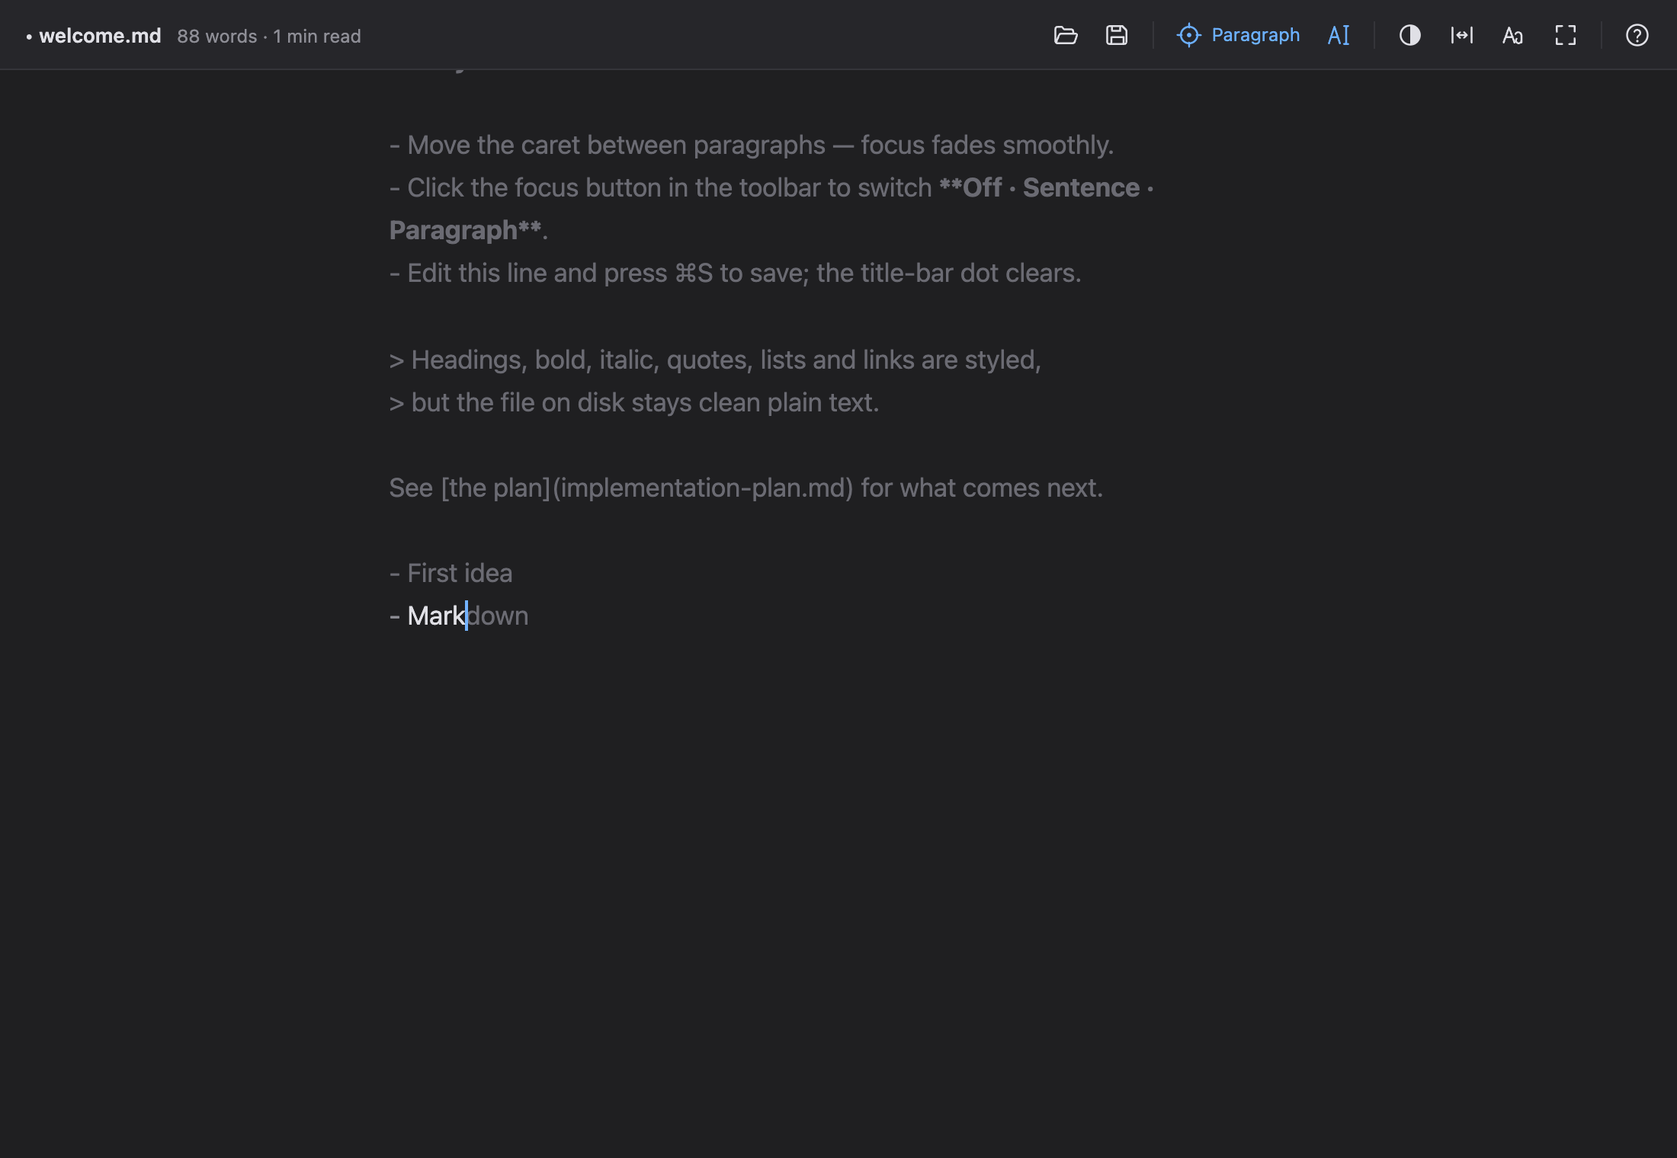
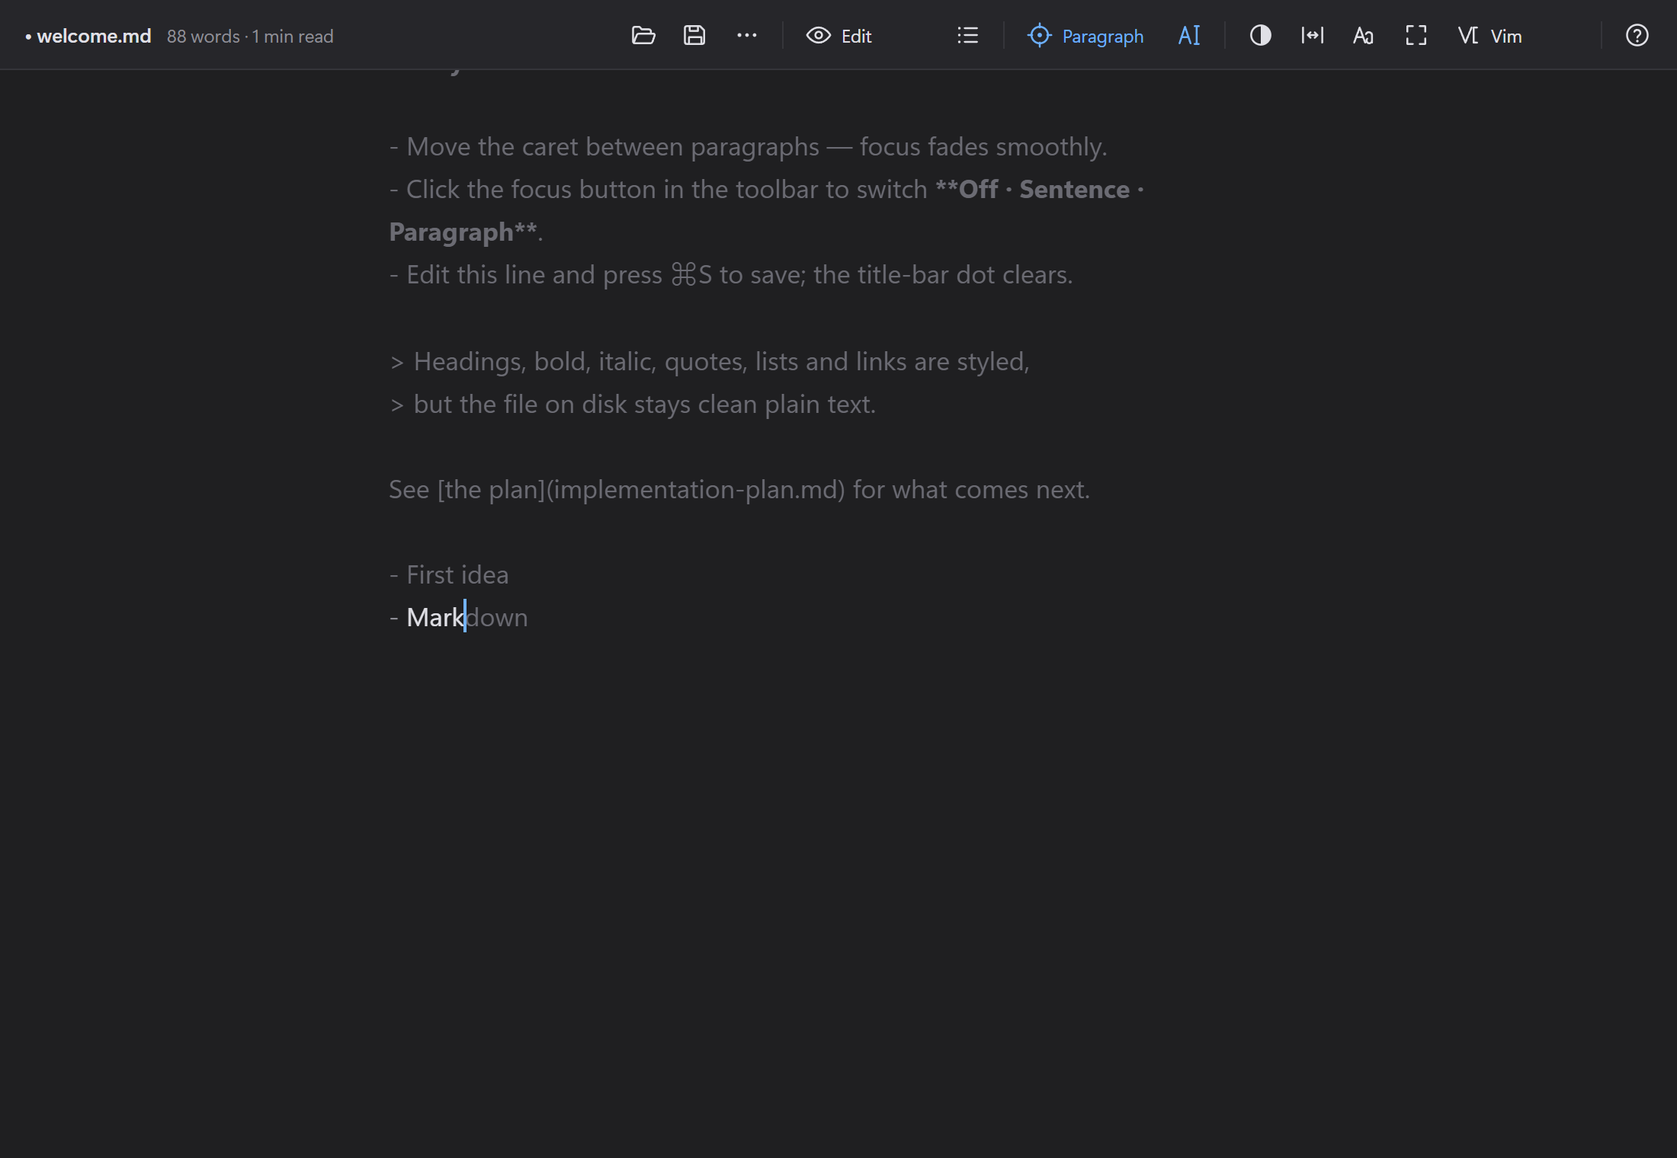
Docs for 1.2.0: Windows status, keys, modules; refreshed Windows screenshots

diff --git a/windows/BUILD.md b/windows/BUILD.md
@@ -10,7 +10,7 @@
 |---|---|---|
 | Оболочка | [Tauri 2](https://tauri.app) (Rust) | нативное окно на системном WebView2; установщик ~5–10 МБ |
 | Редактор | [CodeMirror 6](https://codemirror.net) (TypeScript) | декорации для фокуса, продолжение списков, автоскобки, поиск — из коробки |
-| Rust-часть | `src-tauri/src/lib.rs` | только чтение/запись файлов и файл из командной строки («Открыть с помощью») |
+| Rust-часть | `src-tauri/src/lib.rs` | чтение/запись файлов, файл из командной строки («Открыть с помощью») и открытие `http(s)`-ссылки в браузере |
 
 Логика перенесена из macOS-версии:
 
@@ -22,8 +22,13 @@
 | `Theme.swift`, `Preferences.swift` | `src/themes.ts`, `src/settings.ts` |
 | `HintsViewController.swift` | `src/hints.ts` |
 | `FocusDocument` + меню | `src/main.ts`, `src/platform.ts` |
+| `VimEngine.swift` | `src/vim.ts` (движок), `src/vim-cm.ts` (клавиши, блочный курсор, учебная панель) |
+| `MarkdownToHTML.swift`, панель превью | `src/markdown-html.ts` (на дереве разбора CodeMirror), панель в `src/main.ts` |
+| `OutlineViewController.swift` | `src/outline.ts` |
+| Open Recent, автосохранение NSDocument | `src/recent.ts`, `src/draft.ts` |
+| экспорт HTML, печать | `src/export.ts`, всплывающее меню — `src/menu.ts` |
 
-## Что уже работает (этап 1)
+## Что уже работает (этап 2)
 
 - Фокус-подсветка по предложению или абзацу с плавным угасанием — кнопка-прицел в тулбаре (горячих клавиш нет).
 - Печатная машинка: строка держится по центру окна (**Ctrl+T**).
@@ -31,8 +36,15 @@
 - Серая подсказка слова из документа: **Tab** / **→** — принять, **Esc** — убрать, **Ctrl+Space** — список. В Fountain — `INT.`/`EXT.` и имена персонажей.
 - Автоскобки `( [ { " ` «` с оборачиванием выделения; продолжение списков, задач и цитат по Enter.
 - **Ctrl+B / I / K** — жирный, курсив, ссылка; **Ctrl+F** — поиск и замена.
-- Темы Light / Dark / Sepia, ширина колонки, шрифт, размер (**Ctrl+= / Ctrl+−**), полный экран (**F11**), шпаргалка (**F1**).
-- Файлы: **Ctrl+N / O / S / Shift+S**; сохраняются BOM и переводы строк (CRLF/LF); «Save As» в `.md` сразу включает Markdown; при закрытии с несохранёнными изменениями — вопрос.
+- Темы System / Light / Dark / Sepia, ширина колонки, шрифт, размер (**Ctrl+= / Ctrl+−**), полный экран (**F11**), шпаргалка (**F1**).
+- Файлы: **Ctrl+N / O / S / Shift+S**; сохраняются BOM и переводы строк (CRLF/LF); «Save As» в `.md` сразу включает Markdown; при закрытии с несохранёнными изменениями — вопрос. Файл можно перетащить на окно.
+- **Vim-режим** (кнопка Vim): те же команды и учебная панель, что на Mac; см. [../VIM_GUIDE.md](../VIM_GUIDE.md).
+- **Превью Markdown** (кнопка с глазом, **Ctrl+Shift+P**): Edit → Split → Preview; в Split панели прокручиваются вместе, **Esc** выходит из Preview. HTML-вставки показываются как текст, ссылки открываются в браузере только по `http(s)`, картинки заменены подписью.
+- **Outline** (**Ctrl+Shift+O**): заголовки Markdown или сцены и секции Fountain, текущий пункт подсвечен.
+- **Кнопка ⋯**: недавние файлы (10 штук), Export as HTML, Print or save as PDF (**Ctrl+P**), Copy as HTML. При запуске без файла открывается последний документ.
+- **Восстановление после сбоя:** пока есть несохранённые изменения, их копия лежит в localStorage профиля WebView (обновляется через 1,5 с после правки); после аварийного закрытия при запуске предлагается вернуть текст. Нормальное закрытие, сохранение и «Discard» копию удаляют. Тест: набрать текст, завершить процесс в диспетчере задач, запустить снова.
+- Тема **System** (по умолчанию) следует настройке Windows и переключается вживую.
+- В подсказках (**F1**) внизу: версия, разработчик и ссылка на GitHub.
 - Установщик регистрирует `.md`, `.fountain`, `.txt` для «Открыть с помощью».
 
 **Ещё нет (этап 2):** библиотека, outline, превью и экспорт HTML/PDF, подсветка Fountain, CriticMarkup, звуки печатной машинки, словарные подсказки (в WebView нет доступа к системному словарю).

diff --git a/README.md b/README.md
@@ -29,8 +29,8 @@ FocusEdit is a minimalist macOS text editor for distraction-free writing. It kee
 - **Plain text, styled on screen** — Markdown headings, emphasis, code, quotes, lists, links and CriticMarkup; Fountain scene headings, characters, parentheticals and transitions. Styling is display-only: the file on disk stays clean plain text.
 - **Vim mode for learning** — Modus ▸ Vim Mode: Normal, Insert and Visual modes with the operator + motion grammar (`dw`, `ciw`, `3j`, `.`), and a coach bar under the text that explains every command and suggests faster ways. Leave it with the Exit Vim button on the coach bar or `:novim`. Works in the Russian keyboard layout too. A lesson-by-lesson course is in [VIM_GUIDE.md](VIM_GUIDE.md).
 - **RTF** — `.rtf` files (TextEdit's default format) open as Markdown and save back as RTF: bold, italic, strikethrough, headings, lists, links and code survive the round trip; fonts, colours, images and tables do not, and FocusEdit warns when a file has them. **FocusEdit ▸ Make Default Editor for .txt and .rtf** makes double-clicked text and RTF files open in FocusEdit.
-- **Documents** — standard macOS documents: open, save, revert, recent files, drag and drop. A library sidebar browses a linked folder; the outline jumps between headings; the window subtitle shows the word count and reading time; find and replace.
-- **Preview and export** — live HTML preview for Markdown, export as HTML or PDF, copy as HTML, print.
+- **Documents** — standard macOS documents: open, save, revert, recent files, drag and drop, and autosave elsewhere every minute so unsaved text survives a crash. A library sidebar browses a linked folder; the outline jumps between headings; the window subtitle shows the word count and reading time; find and replace.
+- **Preview and export** — live HTML preview for Markdown in a pane beside the text, scrolling together with it, export as HTML or PDF, copy as HTML, print.
 - **Themes and type** — Light, Dark, Sepia and custom themes; system, monospaced or serif font; three column widths.
 - **Help where you are** — every toolbar button has a tooltip with its shortcut, and ⌘? opens a cheat sheet for the current document type.
 
@@ -87,16 +87,24 @@ The snapshot window stays invisible and never takes keyboard focus, and its demo
 
 <table>
   <tr>
-    <td width="50%"><img src="docs/images/windows-light.png" alt="The Windows version: a light toolbar with open, save, focus (Paragraph), typewriter, theme, column width, font, full screen and hints buttons; the document in a centred column with faded paragraphs and a grey suggestion completing Markdown"></td>
+    <td width="50%"><img src="docs/images/windows-light.png" alt="The Windows version: a light toolbar with open, save, recent files and export, view mode, outline, focus (Paragraph), typewriter, theme, column width, font, full screen, Vim and hints buttons; the document in a centred column with faded paragraphs and a grey suggestion completing Markdown"></td>
     <td width="50%"><img src="docs/images/windows-dark.png" alt="The Windows version in the dark theme"></td>
   </tr>
 </table>
 
 <sub>Rendered from the same web UI in Chrome by <code>npm run snapshot</code> in <code>windows/</code>.</sub>
 
-- **Status:** stage 1. Not yet ported: the library, Fountain highlighting, CriticMarkup and typewriter sounds.
+- **Status:** stage 2. Ported: focus and typewriter, writing aids, Vim mode, Markdown preview (edit, split, preview), outline, recent files, export (HTML, print or PDF, copy as HTML), crash recovery, themes including System, drag-and-drop open. Not yet ported: the library, Fountain highlighting, CriticMarkup and typewriter sounds.
 - **Installers:** GitHub Actions builds the `.exe` installer on Windows for every push to `main` that changes `windows/` (**Actions** → latest run → artifact **FocusEdit-windows**). They cannot be built on a Mac.
-- **Keys:** Ctrl replaces ⌘; F1 opens the hints, F11 toggles full screen. Focus modes have no shortcuts: use the focus button in the toolbar.
+- **Keys:** Ctrl replaces ⌘; F1 opens the hints (with the version and the developer), F11 toggles full screen. Focus modes have no shortcuts: use the focus button in the toolbar.
+
+  | Keys | Action |
+  |---|---|
+  | Ctrl+Shift+P | View: Edit → Split → Preview (Esc leaves the preview) |
+  | Ctrl+Shift+O | Outline of headings |
+  | Ctrl+P | Print, or save as PDF from the print dialog |
+  | ⋯ button | Recent files · Export as HTML · Copy as HTML |
+  | Ctrl+R | Redo in Vim mode (it no longer reloads the window) |
 - **Build from source:** Node.js 22+ and Rust; see [windows/BUILD.md](windows/BUILD.md) (in Russian).
 
 ## Project documents

diff --git a/START_HERE.md b/START_HERE.md
@@ -43,7 +43,7 @@ cd ~/Project/rea-lab/work/uFocus/FocusEdit
 
 На диск всегда пишется простой текст UTF-8. Жирный, курсив, цвета и приглушение — только отображение: в файле остаются ваши `**звёздочки**` и `#`, его откроет любой редактор.
 
-> **Автосохранения нет.** Сохраняйтесь сами: **⌘S**. Точка в красной кнопке закрытия — есть несохранённые изменения; при закрытии FocusEdit спросит, сохранить ли. **File ▸ Revert to Saved** возвращает последнюю сохранённую версию.
+> **Файл сам не перезаписывается.** Сохраняйтесь сами: **⌘S**. Точка в красной кнопке закрытия — есть несохранённые изменения; при закрытии FocusEdit спросит, сохранить ли. **File ▸ Revert to Saved** возвращает последнюю сохранённую версию. Раз в минуту несохранённый текст автоматически откладывается в сторону: после сбоя система предложит вернуть его при следующем запуске.
 
 ## Фокус-письмо
 
@@ -209,15 +209,19 @@ cd ~/Project/rea-lab/work/uFocus/FocusEdit
 | ⌃⌘F — полный экран | **F11** |
 | ⌥Esc — список вариантов | **Ctrl+Space** |
 | ⌘F / ⌥⌘F — поиск, замена | **Ctrl+F** (одна панель для поиска и замены) |
-| меню Modus, View, Library | кнопки в тулбаре: прицел, печатная машинка, тема, ширина колонки, шрифт, полный экран |
+| ⇧⌘P — превью | **Ctrl+Shift+P** — режимы Edit → Split → Preview (кнопка с глазом); **Esc** выходит из Preview |
+| ⌥⌘O — outline | **Ctrl+Shift+O** (кнопка со списком) |
+| ⌘P — печать | **Ctrl+P**: окно печати, в нём же «Сохранить как PDF» |
+| File ▸ Open Recent, экспорт | кнопка **⋯**: недавние файлы, Export as HTML, Print or save as PDF, Copy as HTML |
+| меню Modus, View, Library | кнопки в тулбаре: Vim, прицел, печатная машинка, тема, ширина колонки, шрифт, полный экран |
 
 Режимы подсветки переключаются кнопкой-прицелом, горячих клавиш у них нет — как и на Mac.
 
-Пока есть только этап 1: фокус, печатная машинка, подсказки, автоскобки, списки, темы, файлы. Нет библиотеки, подсветки Fountain, CriticMarkup и звуков (Vim-режим, превью Markdown, outline, недавние файлы, экспорт и открытие перетаскиванием есть). Установщик (`.exe`) берётся из GitHub Actions: **Actions** → последний запуск **Windows build** → **FocusEdit-windows**.
+Это этап 2: фокус, печатная машинка, подсказки, автоскобки, списки, темы (в том числе «System» — по настройке Windows), файлы, восстановление после сбоя. Нет библиотеки, подсветки Fountain, CriticMarkup и звуков (Vim-режим, превью Markdown, outline, недавние файлы, экспорт и открытие перетаскиванием есть). Установщик (`.exe`) берётся из GitHub Actions: **Actions** → последний запуск **Windows build** → **FocusEdit-windows**.
 
 ## Чего пока нет
 
-- Автосохранения и версий документа — сохраняйтесь через ⌘S.
+- Истории версий документа: при сбое текст восстанавливается, но прежних версий файла нет — сохраняйтесь через ⌘S.
 - Синхронизации через iCloud и расширения Quick Look.
 - Сценарной вёрстки страниц при экспорте Fountain в PDF.
 - Режима «запретить удаление текста» из плана проекта.

diff --git a/BUILD.md b/BUILD.md
@@ -154,7 +154,7 @@ open "$TMP/icon_256x256.png"   # вне лаборатории
 
 ## Windows (эксперимент)
 
-В папке `windows/` есть экспериментальная Windows-версия. Это отдельное приложение на Tauri 2 (Rust) и CodeMirror 6 (TypeScript): AppKit под Windows нет, поэтому интерфейс написан заново, а логика (фокус, печатная машинка, подсказки, автоскобки, списки) перенесена из Swift. Подробно — [windows/BUILD.md](windows/BUILD.md).
+В папке `windows/` есть экспериментальная Windows-версия. Это отдельное приложение на Tauri 2 (Rust) и CodeMirror 6 (TypeScript): AppKit под Windows нет, поэтому интерфейс написан заново, а логика (фокус, печатная машинка, подсказки, автоскобки, списки, Vim-режим) перенесена из Swift; превью, outline, недавние файлы, экспорт и восстановление после сбоя написаны заново. Подробно — [windows/BUILD.md](windows/BUILD.md).
 
 ```bash
 cd windows

diff --git a/CLAUDE.md b/CLAUDE.md
@@ -33,7 +33,7 @@ Run from `windows/`:
 ```bash
 npm install
 npm run dev                          # vite dev server on :1420 (browser fallback works without Tauri)
-npm test                             # vitest run (tests/*.test.ts, node environment)
+npm test                             # vitest run (tests/*.test.ts, node env; pure logic: vim, markdown-html, outline, recent/draft, export, themes)
 npx vitest run tests/editing.test.ts # single file; add -t "name" for a single test
 npm run build                        # tsc --noEmit && vite build
 npm run tauri -- build               # NSIS .exe installer (Windows only; CI does this). MSI is off: its AppUserModel.ID warning 1946
